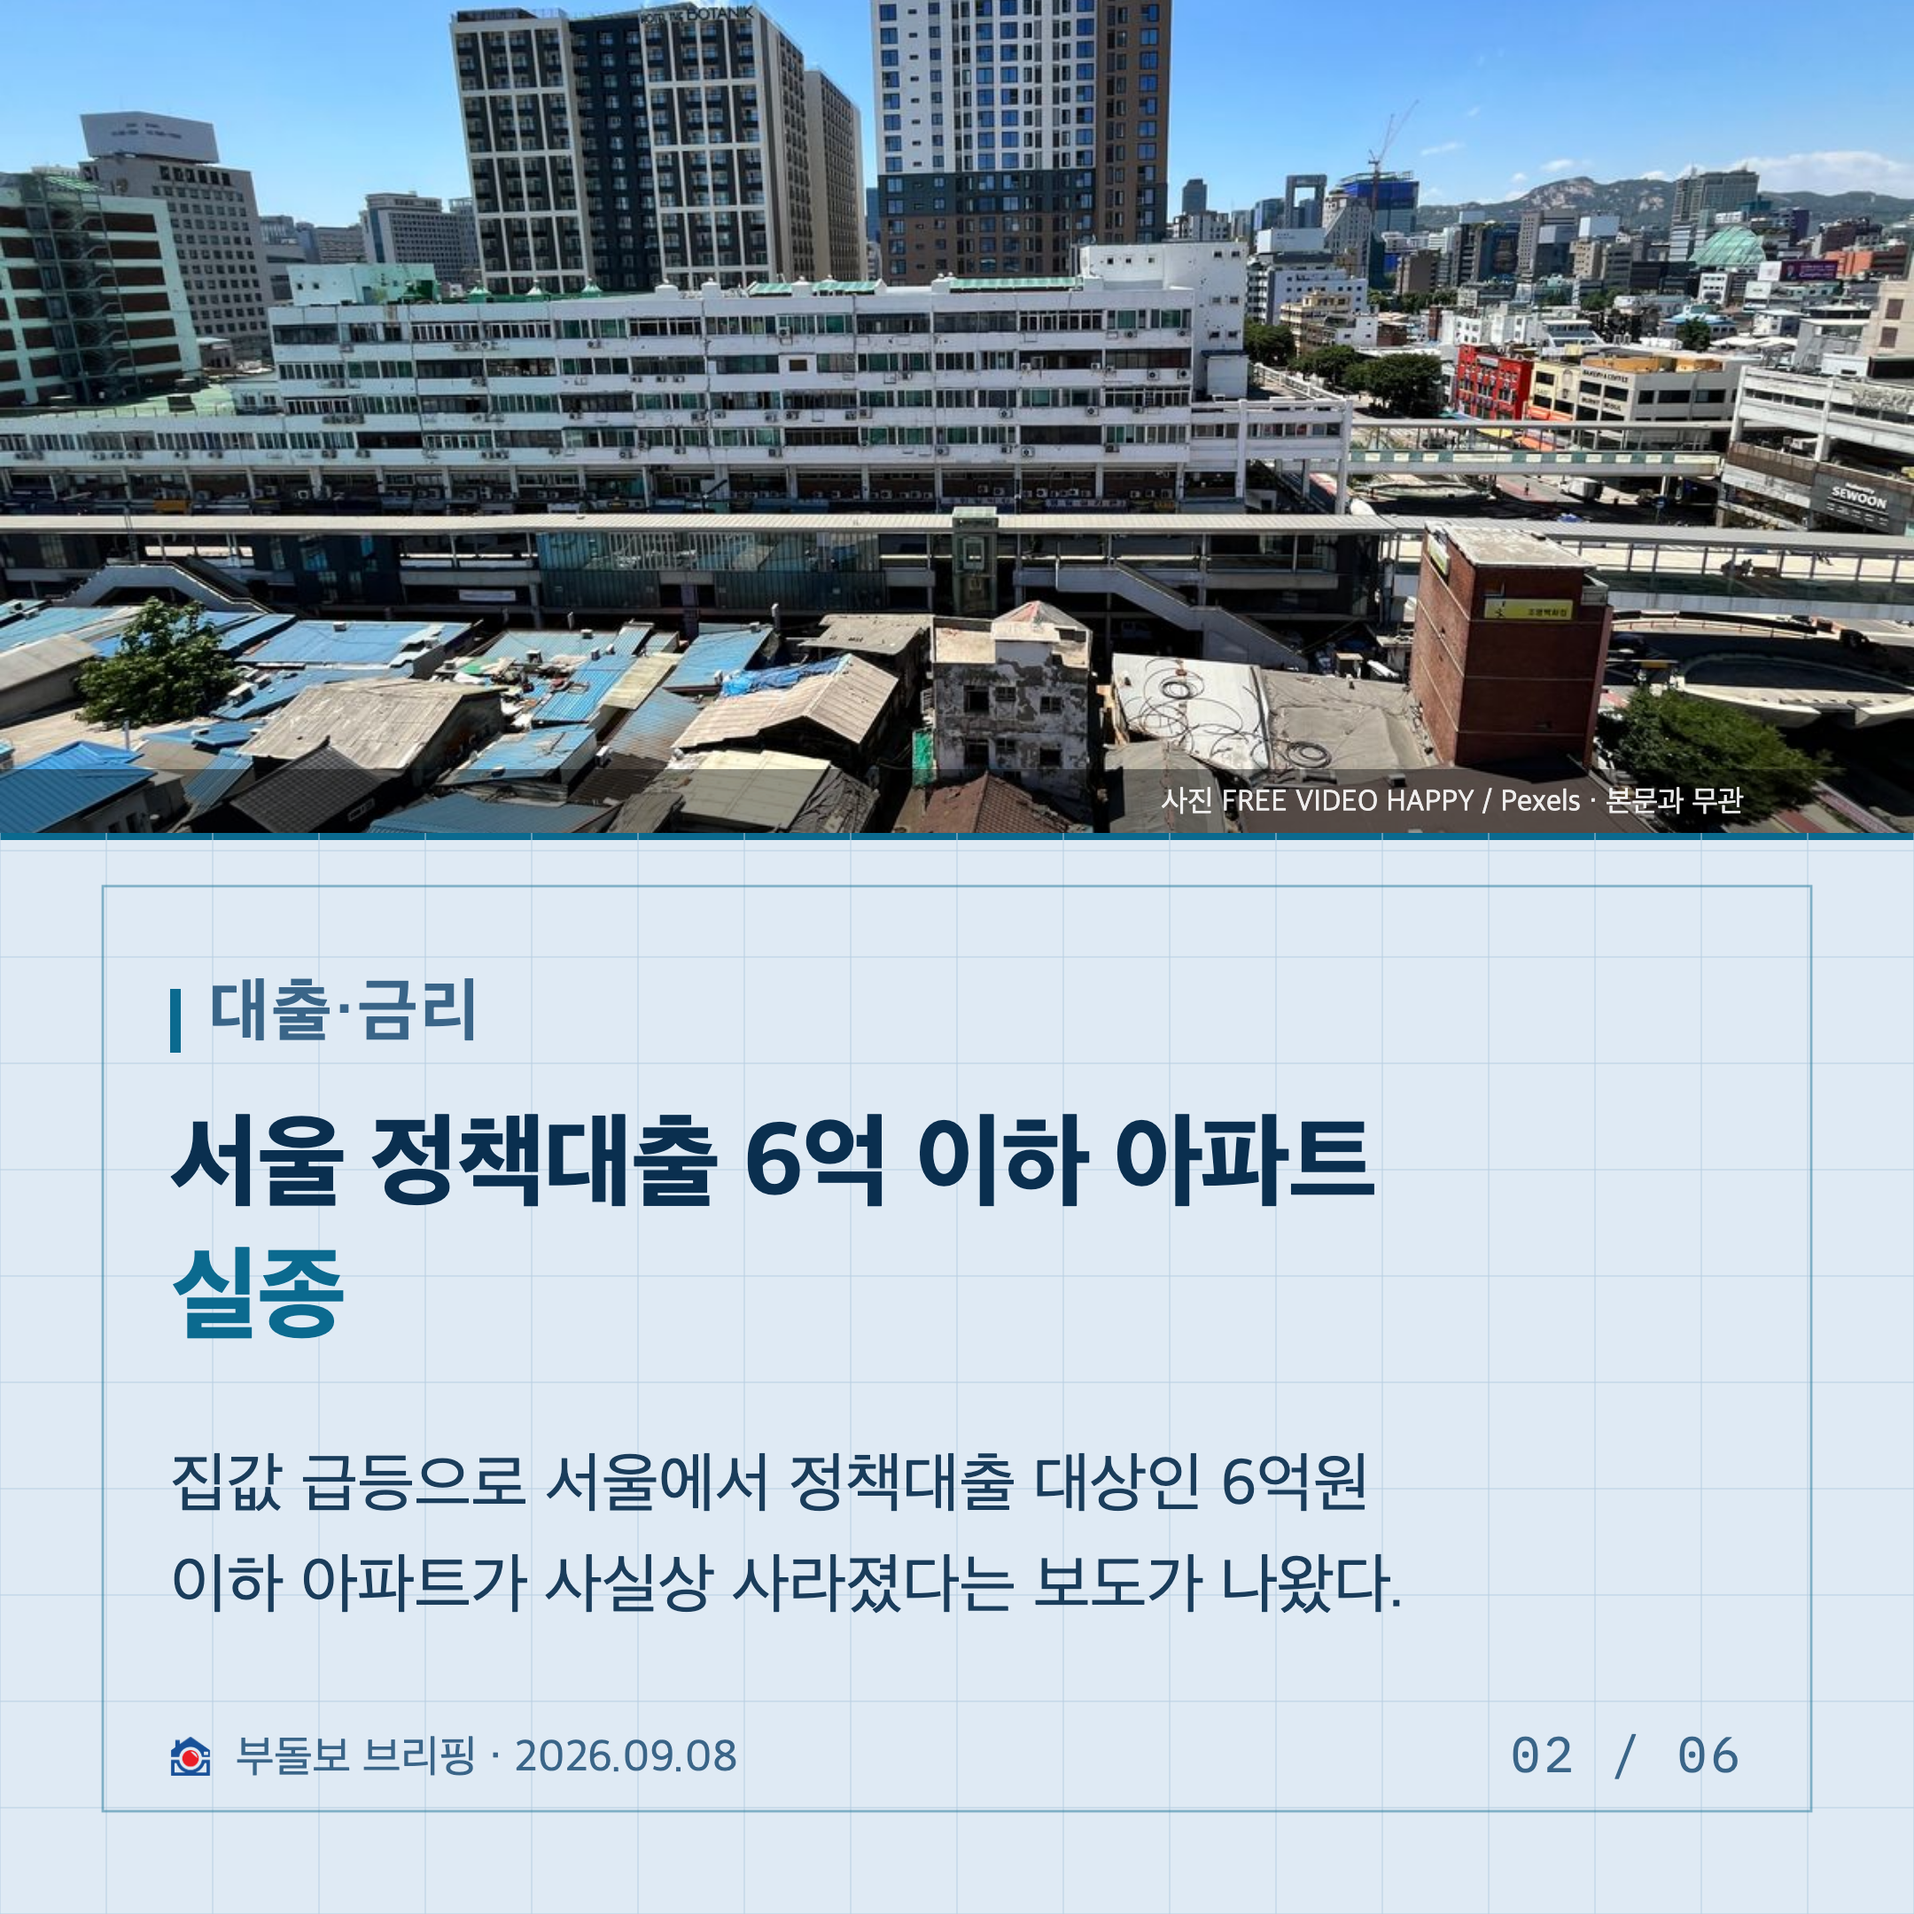
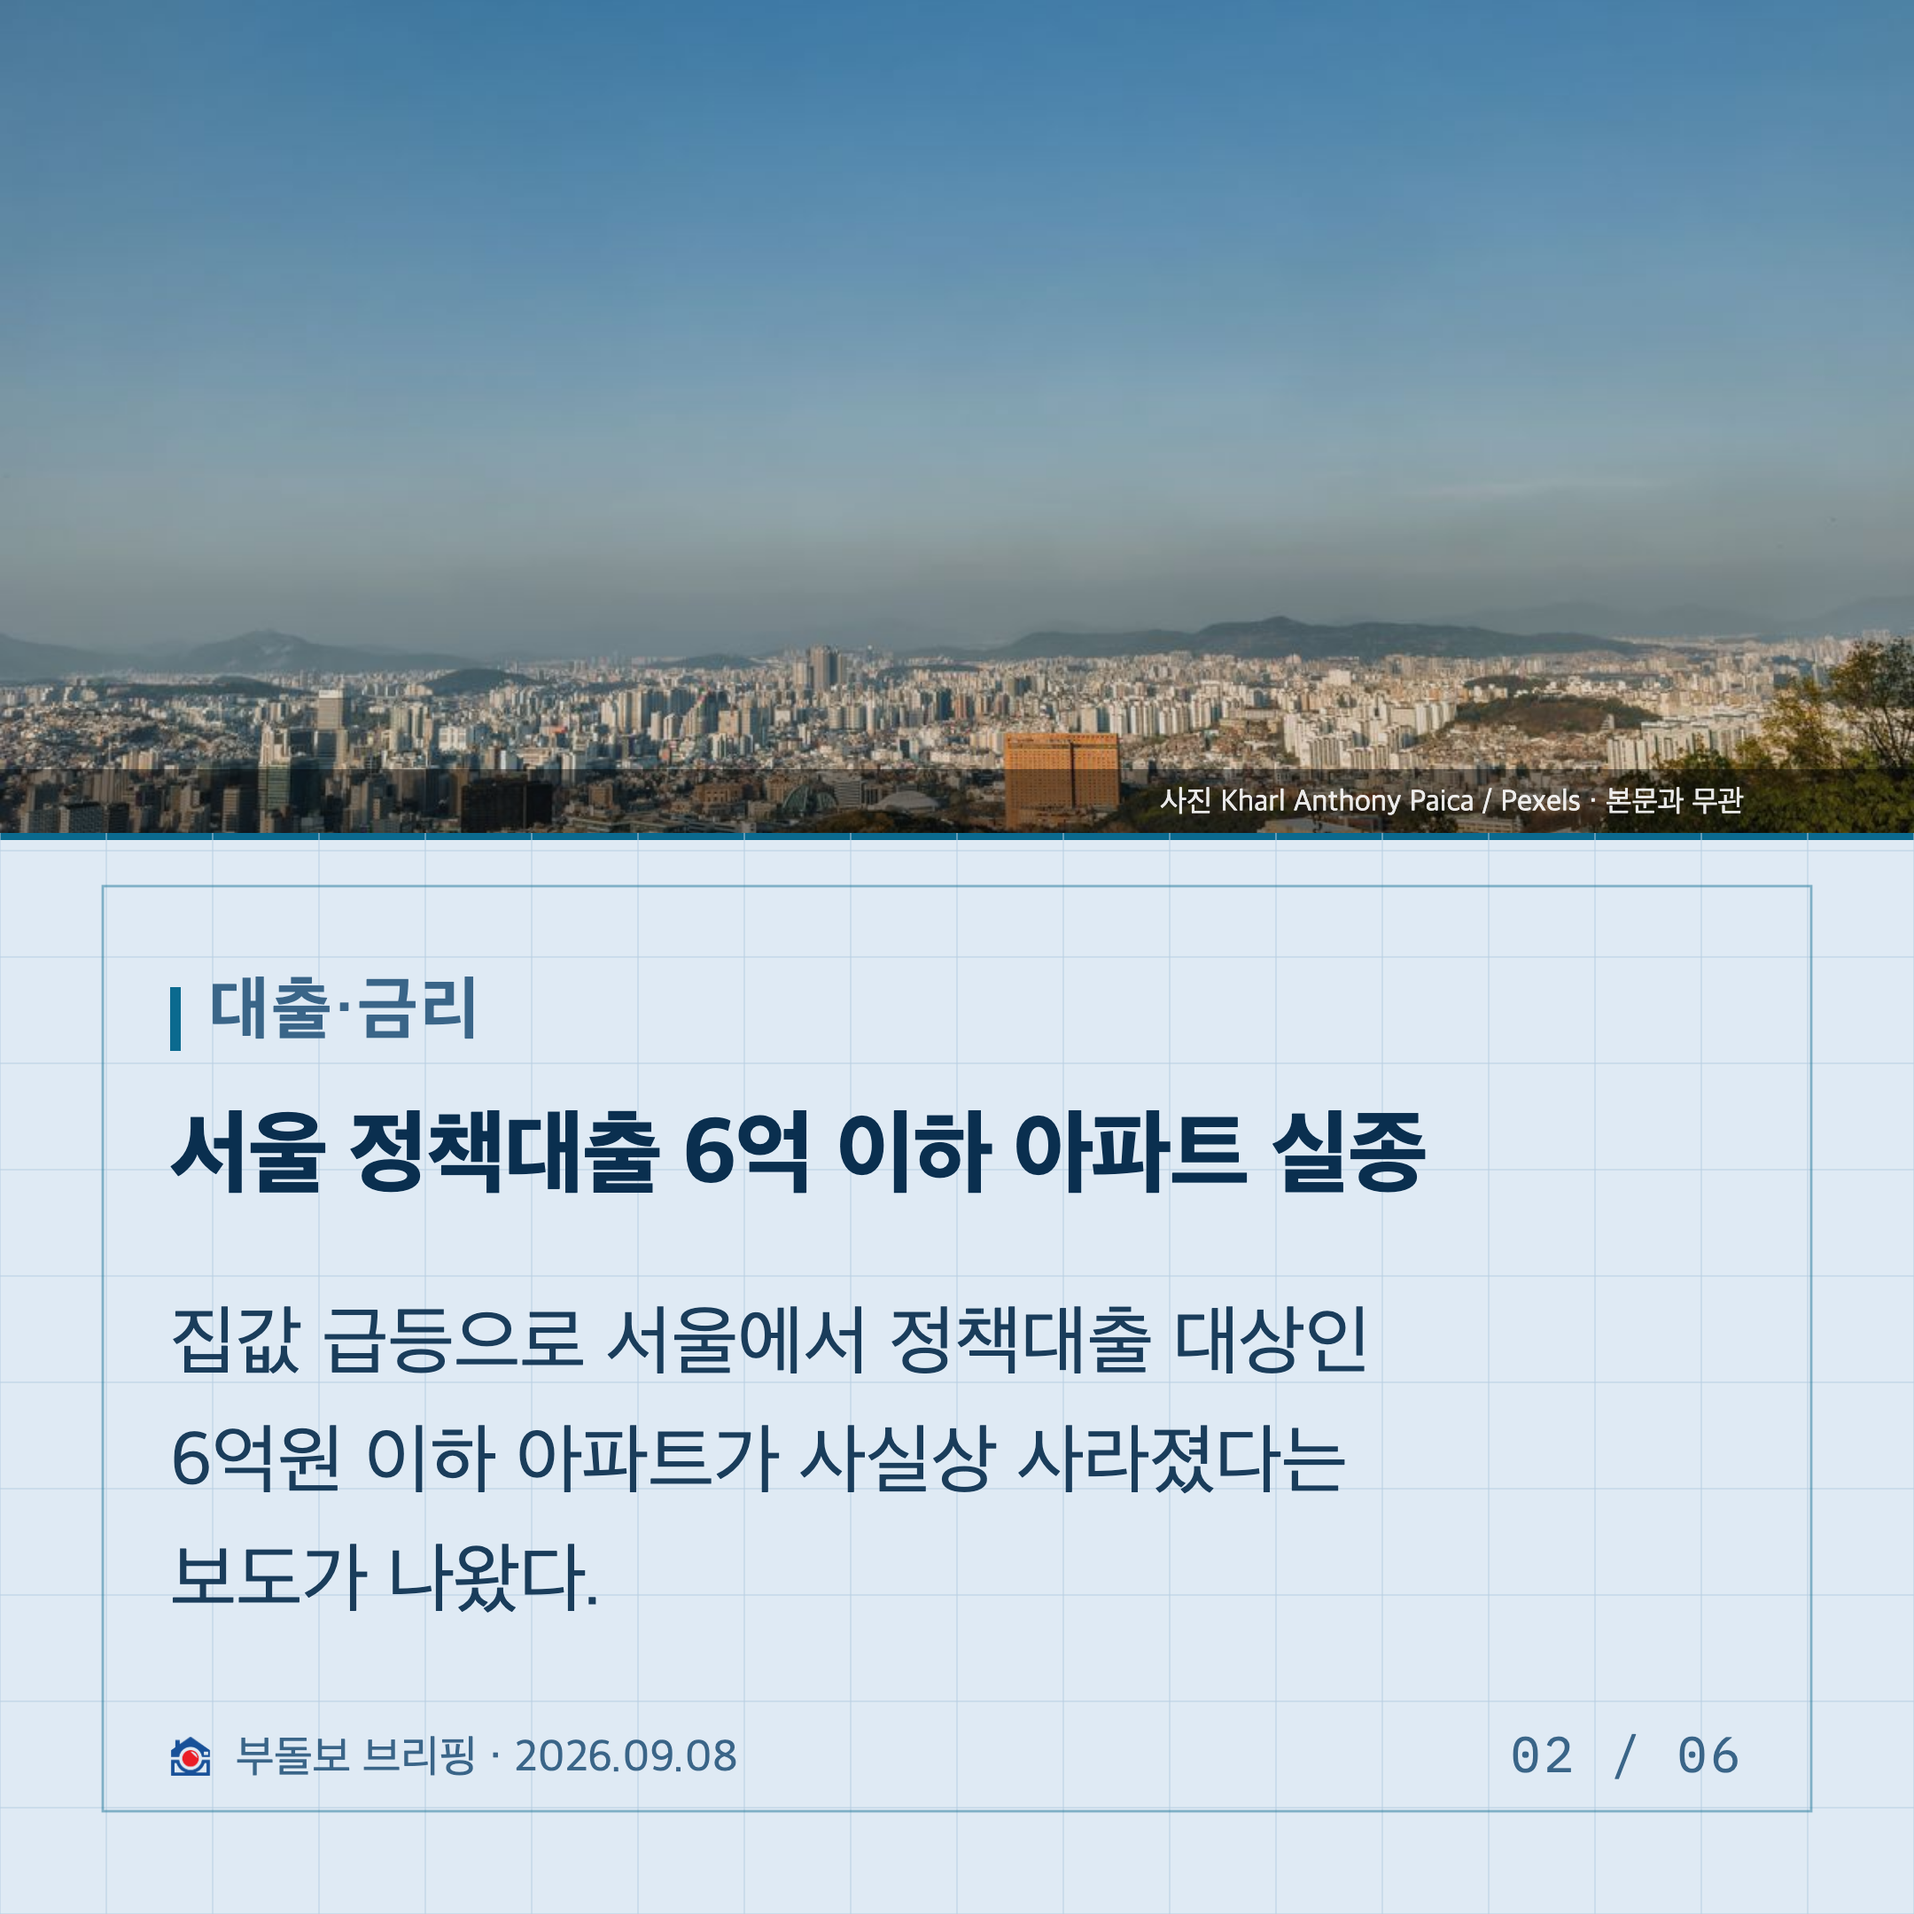
이슈 카드 제목의 고아 낱말을 끌어올림
「서울 정책대출 6억 이하 아파트 / 실종」처럼 마지막 줄에 낱말 하나만 떨어져
제목이 두 동강 나 보인다는 지적.

- 글자 폭 888 → 904 (오른쪽 여백 96 → 80)
- _fit 이 마지막 줄에 낱말이 하나뿐이면 10% 안쪽에서 글씨를 줄여 한 줄로 붙임.
  이 제목은 58px 에서 통짜 폭이 1003px 이라 폭만 넓혀서는 붙지 않음 — 52px 에서 붙음
- 그 줄이기는 하한(floor)을 넘지 않음. 넘게 두었더니 '오늘의 숫자' 설명이
  32px 아래 28px 까지 내려감

제목이 한 줄이 되면서 마지막 줄에 얹던 신호색은 사라짐. 그대로 두기로 함(사용자 선택).

diff --git a/rebrief/images.py b/rebrief/images.py
@@ -1543,11 +1543,26 @@ def _card_frame(face: tuple, n: int, total: int, *, date: str = "", channel: str
 
 
 def _fit(text: str, size: float, width: float, max_lines: int, floor: float = 30) -> tuple[list[str], float]:
-    """줄 수 안에 들어갈 때까지 글씨를 줄인다. 넘치면 잘라 내는 대신 작게 만든다."""
+    """줄 수 안에 들어갈 때까지 글씨를 줄인다. 넘치면 잘라 내는 대신 작게 만든다.
+
+    마지막 줄에 낱말이 하나만 떨어지면(고아 낱말) **10% 안쪽에서 줄여 끌어올립니다** —
+    「…아파트 / 실종」처럼 한 낱말만 다음 줄에 남으면 제목이 두 동강 나 보입니다
+    (2026-09-08 사용자 지적). 10% 를 넘겨야 붙는 제목은 그냥 두 줄로 둡니다. 글씨를
+    많이 줄여 한 줄로 만드는 쪽이 더 나빠서입니다.
+    """
     lines = wrap(text, size, width)
     while len(lines) > max_lines and size > floor:
         size -= 4
         lines = wrap(text, size, width)
+    if len(lines) > 1 and len(lines[-1].split()) == 1:
+        # 하한(floor)은 넘지 않습니다. '오늘의 숫자' 설명은 32 아래로 내려가느니 두 줄로
+        # 푸는 쪽이 낫다고 이미 정해 두었는데, 고아 낱말을 잡겠다고 28 까지 내려갔습니다.
+        limit, small = max(floor, size * 0.9), size
+        while small > limit:
+            small -= 2
+            tighter = wrap(text, small, width)
+            if len(tighter) < len(lines):
+                return tighter[:max_lines], small
     return lines[:max_lines], size
 
 
@@ -1724,7 +1739,9 @@ def _issue_card(issue: dict, n: int, total: int, date: str, channel: str,
     w, h = CARD_SIZE
     ground, ink, dim, rule, signal = CARD_FACES["issue"]
     p, top, bottom = _card_frame(CARD_FACES["issue"], n, total, date=date, channel=channel, art=art)
-    inner = w - 192
+    # 글자가 쓰는 폭. 오른쪽 여백을 96 → 80 으로 좁혀 제목 한 줄을 더 벌었습니다
+    # (2026-09-08 사용자 지시). 청사진 테두리(58) 안쪽이라 답답해 보이지 않습니다.
+    inner = w - 176
 
     blocks: list[tuple] = []
     cat = str(issue.get("category", "")).strip()

diff --git a/CLAUDE.md b/CLAUDE.md
@@ -512,6 +512,15 @@ Actions 탭에 비활성 안내 띠 없음, cron 문법 정상, 기본 브랜치
 기준선에서 위 0.79em·아래 0.09em(프리텐다드를 fontTools 로 잰 값)으로 상자를 잡습니다.
 글자 크기를 그대로 로고 높이로 쓰면 로고가 1.4배 커 보이고 위로 튑니다.
 
+**고아 낱말은 조금 줄여 끌어올립니다 (2026-09-08, 사용자 지적).** 「…아파트 / 실종」처럼
+마지막 줄에 낱말 하나만 떨어지면 제목이 두 동강 나 보입니다. `_fit` 이 10% 안쪽에서
+글씨를 줄여 한 줄로 붙입니다 — **하한(floor)은 넘지 않습니다.** 넘게 두었더니
+'오늘의 숫자' 설명이 32px 아래 28px 까지 내려갔습니다. 이슈 카드 글자 폭도
+888 → 904 로 넓혔습니다(오른쪽 여백 96 → 80).
+곁들여 알아 둘 것 — `_title_block` 은 **제목이 두 줄 이상일 때만** 마지막 줄에
+신호색을 얹습니다. 낱말을 골라 칠하는 게 아니라서 제목이 한 줄이면 강조색이
+없습니다. 사용자가 그 상태로 두기로 했습니다.
+
 **표지는 언제나 사진 대문입니다 (2026-09-08, 사용자 지시).**
 사진 위에 검정 55% 를 덮고 가운데에 날짜(고정폭)와 **부동산 주요이슈**(92px 흰 글씨)를
 얹습니다. **누르지 않으면 밝은 하늘이나 흰 건물 위에서 흰 글씨가 사라집니다.**
